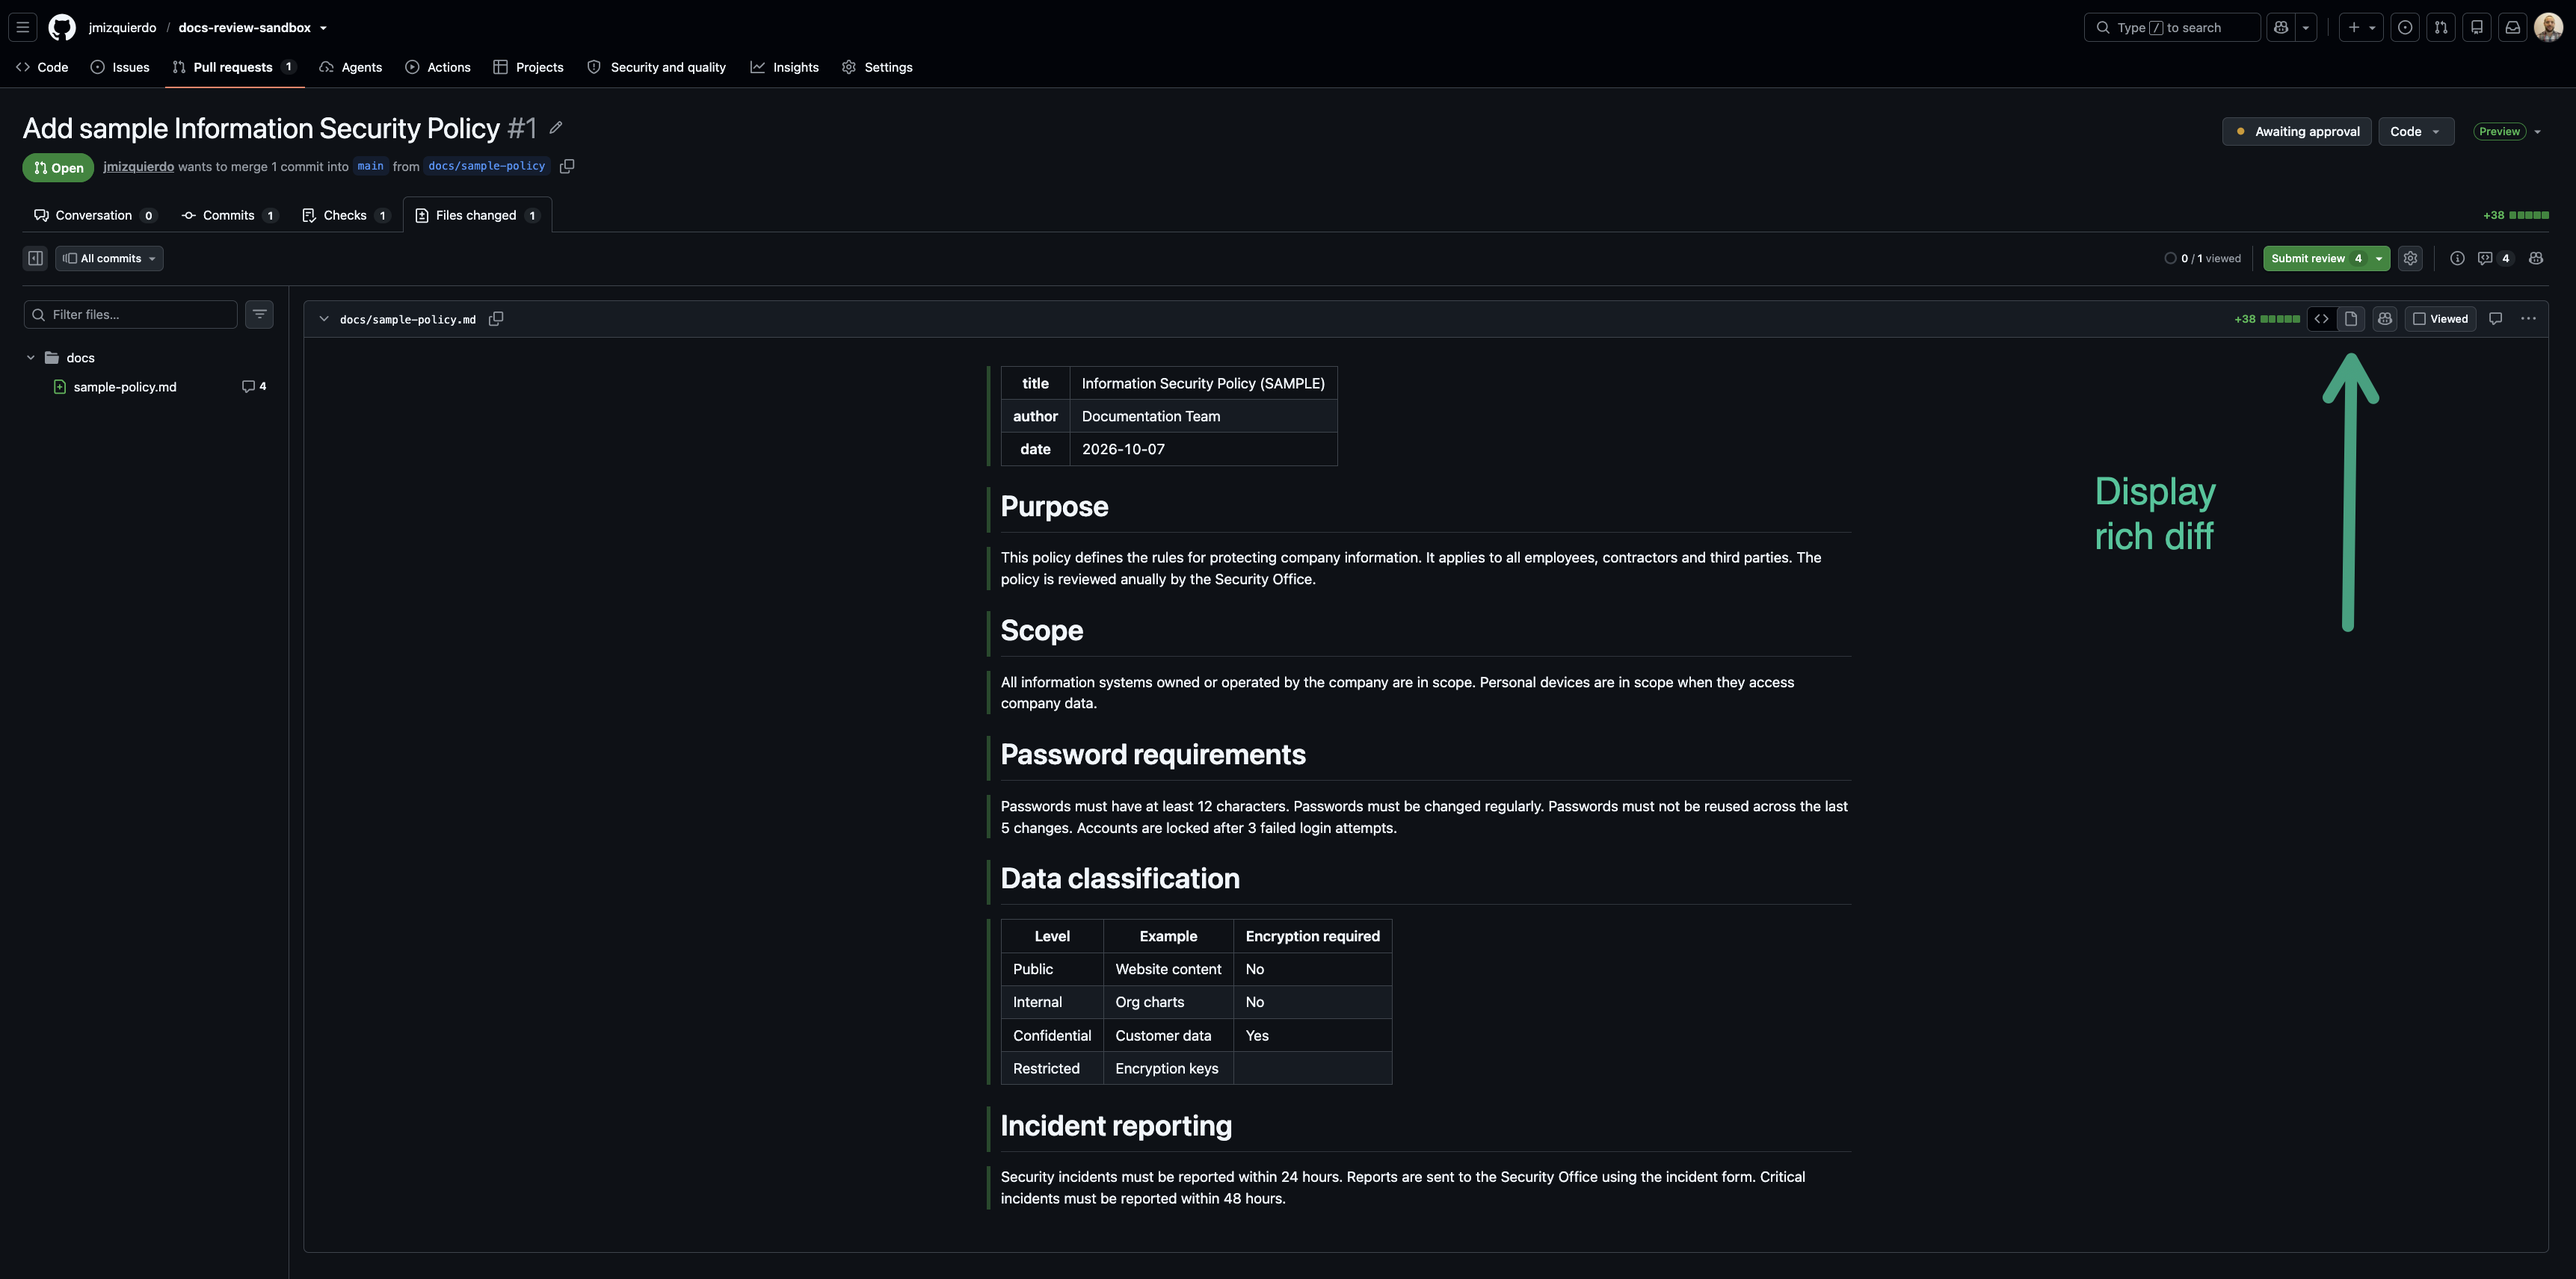
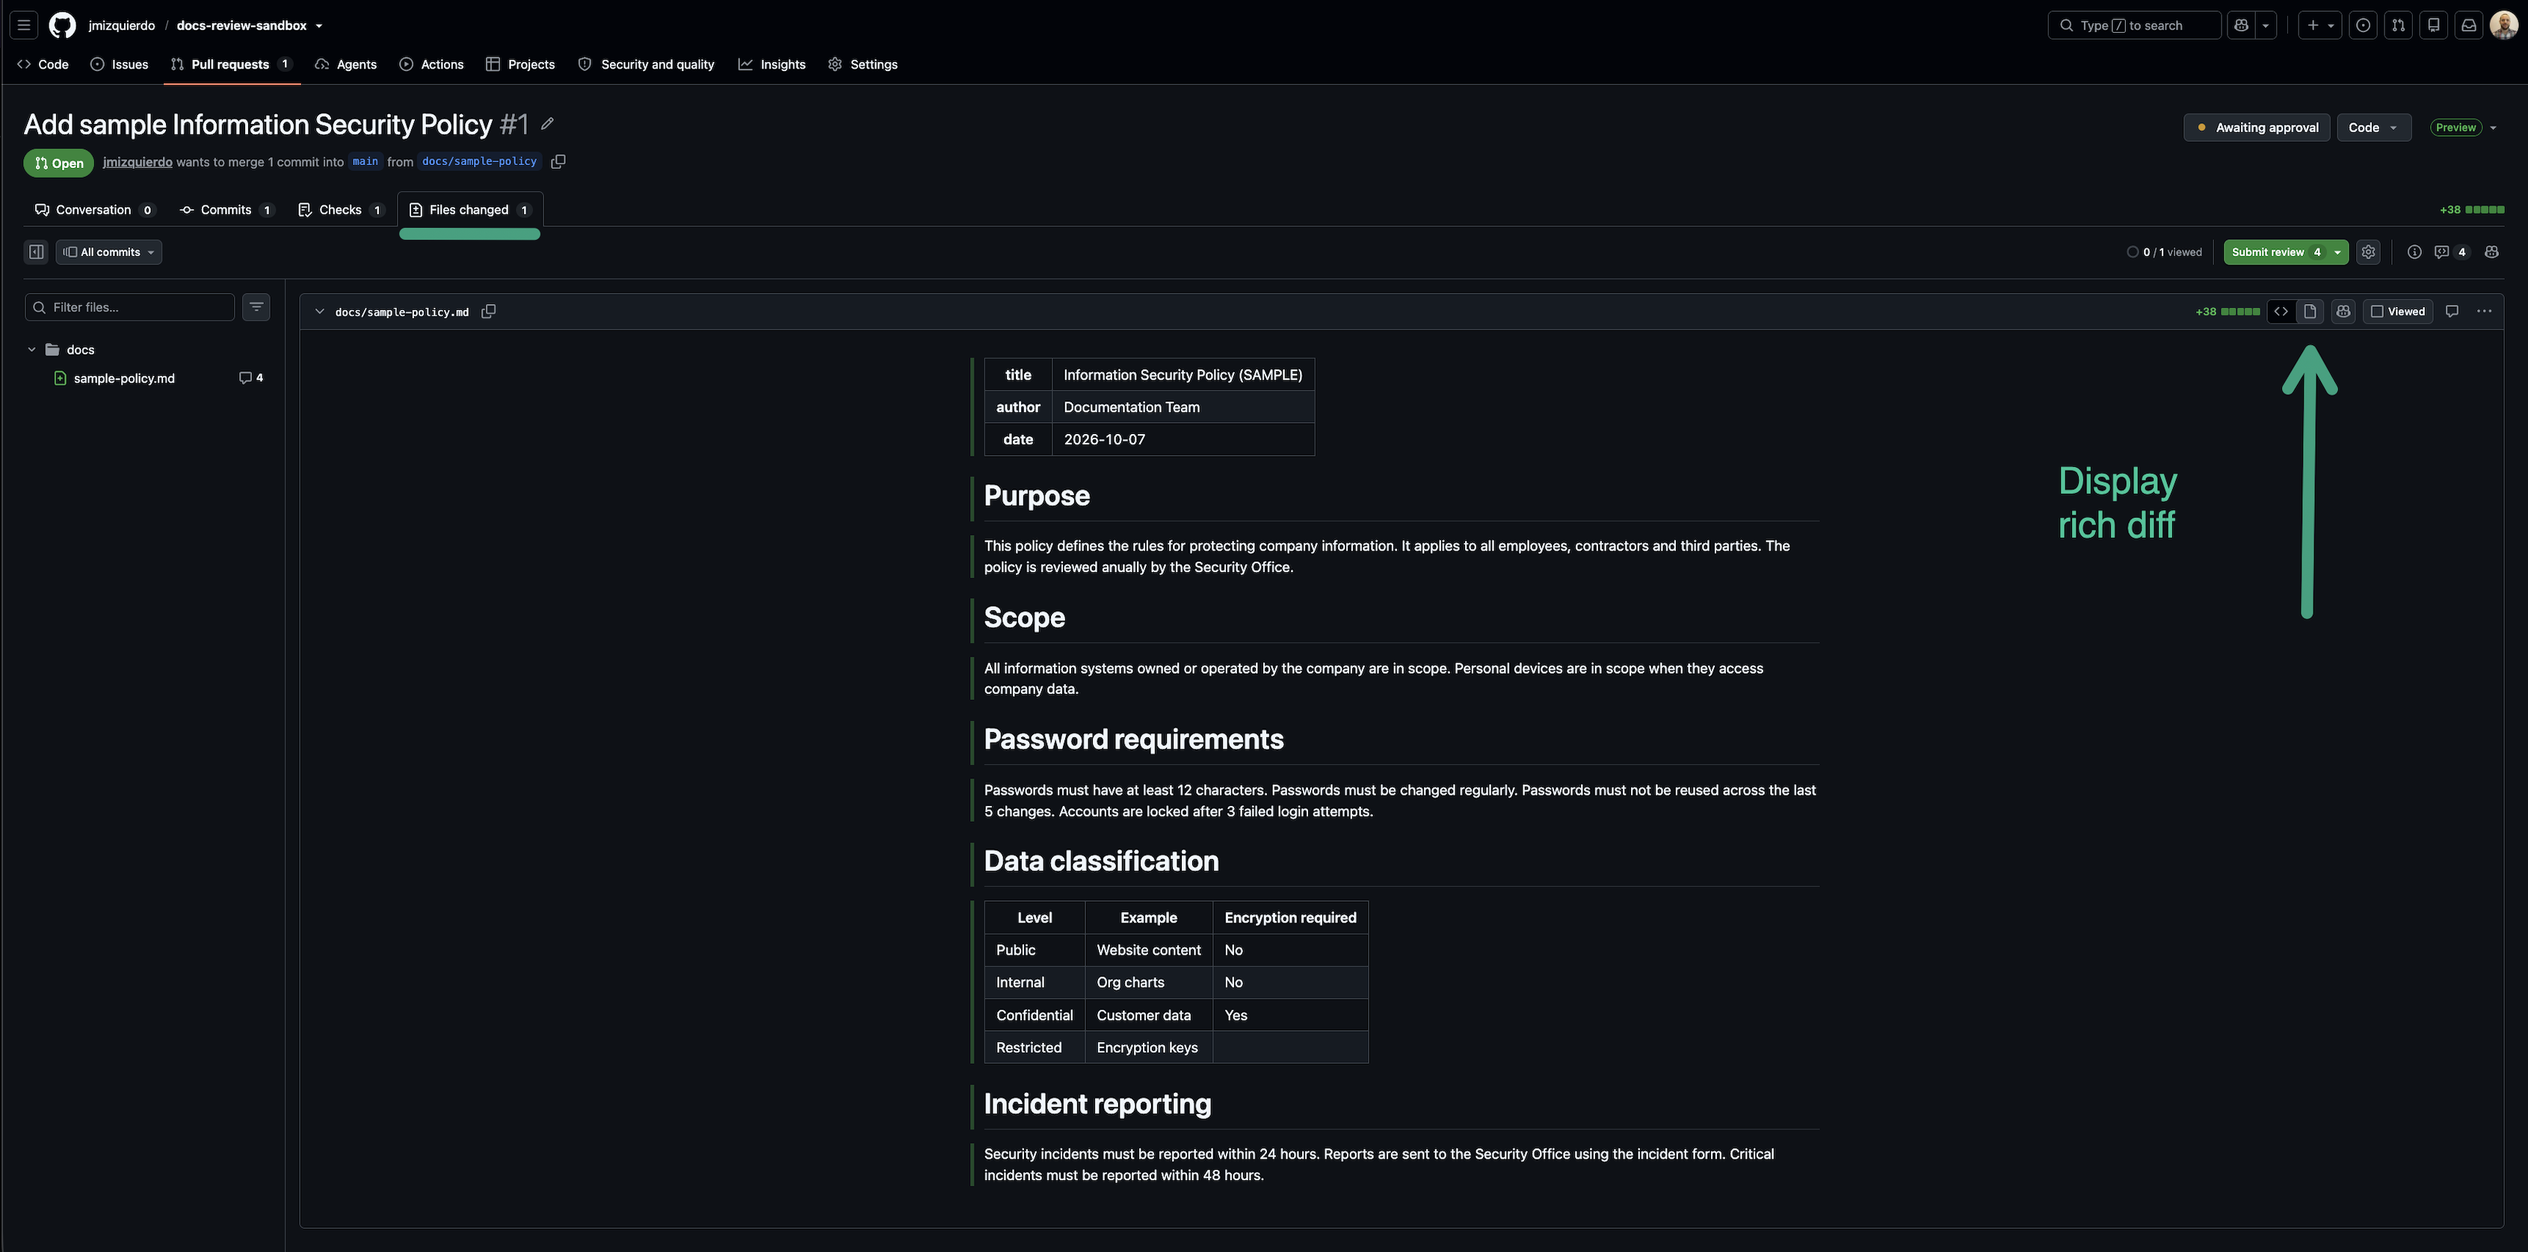
Address review: mention SharePoint, new suggestion and rich diff screenshots, warn about instructions in suggestion blocks

diff --git a/REVIEWING.md b/REVIEWING.md
@@ -8,7 +8,7 @@ toc: true
 
 # Why we review this way
 
-Our documents are written in Markdown, stored in GitHub, and reviewed through Pull Requests (PRs) instead of passing Word files around by email.
+Our documents are written in Markdown, stored in GitHub, and reviewed through Pull Requests (PRs) instead of passing Word files around by email or sharing copies on SharePoint sites.
 
 - **One source of truth.** There is one copy of each document, in the repository. There are no "v3_final_JM_reviewed.docx" files.
 - **Comments are tied to exact sentences.** Each comment is attached to the line it talks about, so nobody has to guess what "the second paragraph on page 4" means.
@@ -109,6 +109,15 @@ When you know exactly what the text should say, propose it instead of describing
 3. GitHub inserts a block that starts with `` ```suggestion `` and contains the current text.
 4. Edit the text **inside** the block so it reads the way it should.
 5. Optionally, add a short explanation **above** the block.
+
+**Only the new text goes inside the block.**
+Whatever is inside replaces the original line(s) when the author commits the suggestion.
+If you write an instruction there, such as "Highlight the tab in the picture", committing it would replace the line with your instruction.
+In this screenshot from the review of this guide, committing the suggestion would have deleted the image:
+
+![Wrong: an instruction written inside a suggestion block](guide/images/04-suggest-changes.png)
+
+For requests like that, write a normal comment without a suggestion block.
 
 In the example, the reviewer fixed the typo like this:
 
@@ -365,6 +374,10 @@ That usually means the author already acted on it.
 **Can the author ignore a suggestion?**
 Yes.
 They should reply explaining why, then resolve the thread.
+
+**A suggestion contains an instruction instead of new text. What do I do?**
+Don't commit it, because it would replace the line with the instruction.
+Do what it asks by hand, reply in the thread, and resolve it.
 
 **Do I need to install Git?**
 Reviewers don't.
